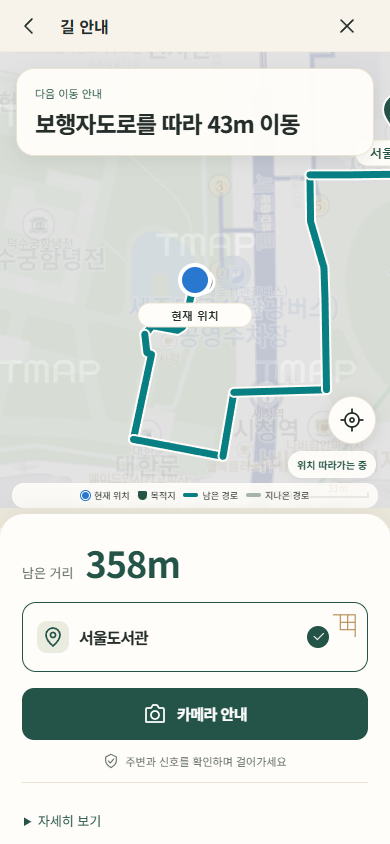
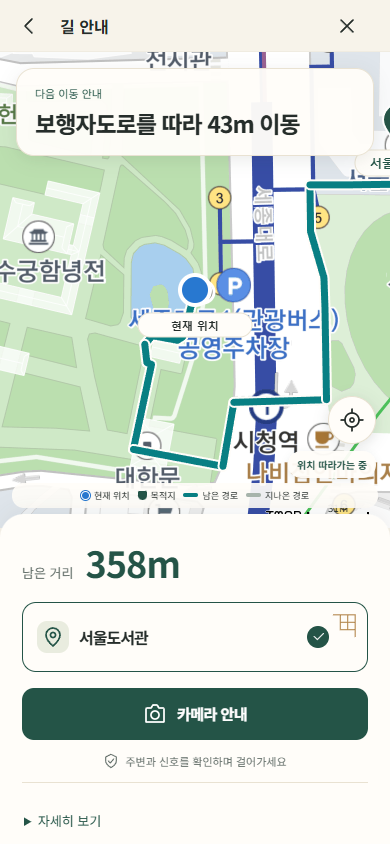
fix: keep paused guidance card visible after opening details

Changed region(s): [[0.0, 0.0616, 1.0, 0.6469]]

diff --git a/src/navigation/LiveNavigation.tsx b/src/navigation/LiveNavigation.tsx
@@ -63,6 +63,7 @@ export function LiveNavigation({onDemo,review=false}:Props) {
   return()=>controller.abort();
  },[configAttempt]);
  useEffect(()=>{content.current?.scrollTo(0,0);},[stage]);
+ useEffect(()=>{if(stage==='map')content.current?.scrollTo(0,0);},[gps.active]);
  useEffect(()=>{
   if(ending){focus.current=document.activeElement as HTMLElement;dialog.current?.showModal();}
   else if(dialog.current?.open){dialog.current.close();focus.current?.focus();}

diff --git a/docs/portfolio/work-log.md b/docs/portfolio/work-log.md
@@ -284,3 +284,6 @@
 
 ## 실제 SDK 확인에서 발견한 추가 문제
 최초 배포의 X 이동을 실제 SDK에서 확인할 때 화면이 비고 `mapShapeLayer` 참조 오류가 발생했다. 모의 SDK는 지도 파괴 이후의 오버레이 해제도 허용해 이를 발견하지 못했다. 원인은 지도 생성 effect의 cleanup이 먼저 지도를 파괴하고 뒤의 effect가 마커/선/정확도 원을 해제한 순서였다. 오버레이 목록을 공유 참조로 관리해 먼저 모두 setMap(null) 처리하고 지도를 파괴하며 후속 cleanup은 빈 목록에만 적용하도록 수정했다. 회귀 검증의 모의 SDK도 파괴된 지도에서 오버레이를 해제하면 오류를 내도록 강화했다. 수정 후 빌드와 관련 브라우저 28개 통과. 실제 SDK 재검증은 다음 배포 기록 참조.
+
+
+실제 지도 SDK 자원 해제 수정 후 production `dpl_4UQNSfwZNa9M3pRFckBQqAaeMbVb`에서 실제 서울도서관 검색·도보 경로와 주입한 공개 GPS 좌표로 X/홈/복귀/일시중지/재개/종료를 확인했다. watch 1회 유지·일시중지 후 해제·재개 후 종료 해제, 페이지 오류 0개 확인. 실제 실외 GPS는 미검증. 캡처 검토에서 일시중지 후 기존 스크롤 위치로 상단 카드가 가려지는 점을 추가로 발견해 GPS 활성 상태 전환 시 안내 화면을 위로 맞췄다. 수정 후 빌드·관련 12개 통과. 최종 배포 확인은 다음 기록 참조.

diff --git a/docs/issues/2026-11-12-guidance-session-home.md b/docs/issues/2026-11-12-guidance-session-home.md
@@ -20,3 +20,6 @@
 
 ## 실제 SDK 확인에서 발견한 추가 문제
 최초 배포의 X 이동을 실제 SDK에서 확인할 때 화면이 비고 `mapShapeLayer` 참조 오류가 발생했다. 모의 SDK는 지도 파괴 이후의 오버레이 해제도 허용해 이를 발견하지 못했다. 원인은 지도 생성 effect의 cleanup이 먼저 지도를 파괴하고 뒤의 effect가 마커/선/정확도 원을 해제한 순서였다. 오버레이 목록을 공유 참조로 관리해 먼저 모두 setMap(null) 처리하고 지도를 파괴하며 후속 cleanup은 빈 목록에만 적용하도록 수정했다. 회귀 검증의 모의 SDK도 파괴된 지도에서 오버레이를 해제하면 오류를 내도록 강화했다. 수정 후 빌드와 관련 브라우저 28개 통과. 실제 SDK 재검증은 다음 배포 기록 참조.
+
+
+실제 지도 SDK 자원 해제 수정 후 production `dpl_4UQNSfwZNa9M3pRFckBQqAaeMbVb`에서 실제 서울도서관 검색·도보 경로와 주입한 공개 GPS 좌표로 X/홈/복귀/일시중지/재개/종료를 확인했다. watch 1회 유지·일시중지 후 해제·재개 후 종료 해제, 페이지 오류 0개 확인. 실제 실외 GPS는 미검증. 캡처 검토에서 일시중지 후 기존 스크롤 위치로 상단 카드가 가려지는 점을 추가로 발견해 GPS 활성 상태 전환 시 안내 화면을 위로 맞췄다. 수정 후 빌드·관련 12개 통과. 최종 배포 확인은 다음 기록 참조.
